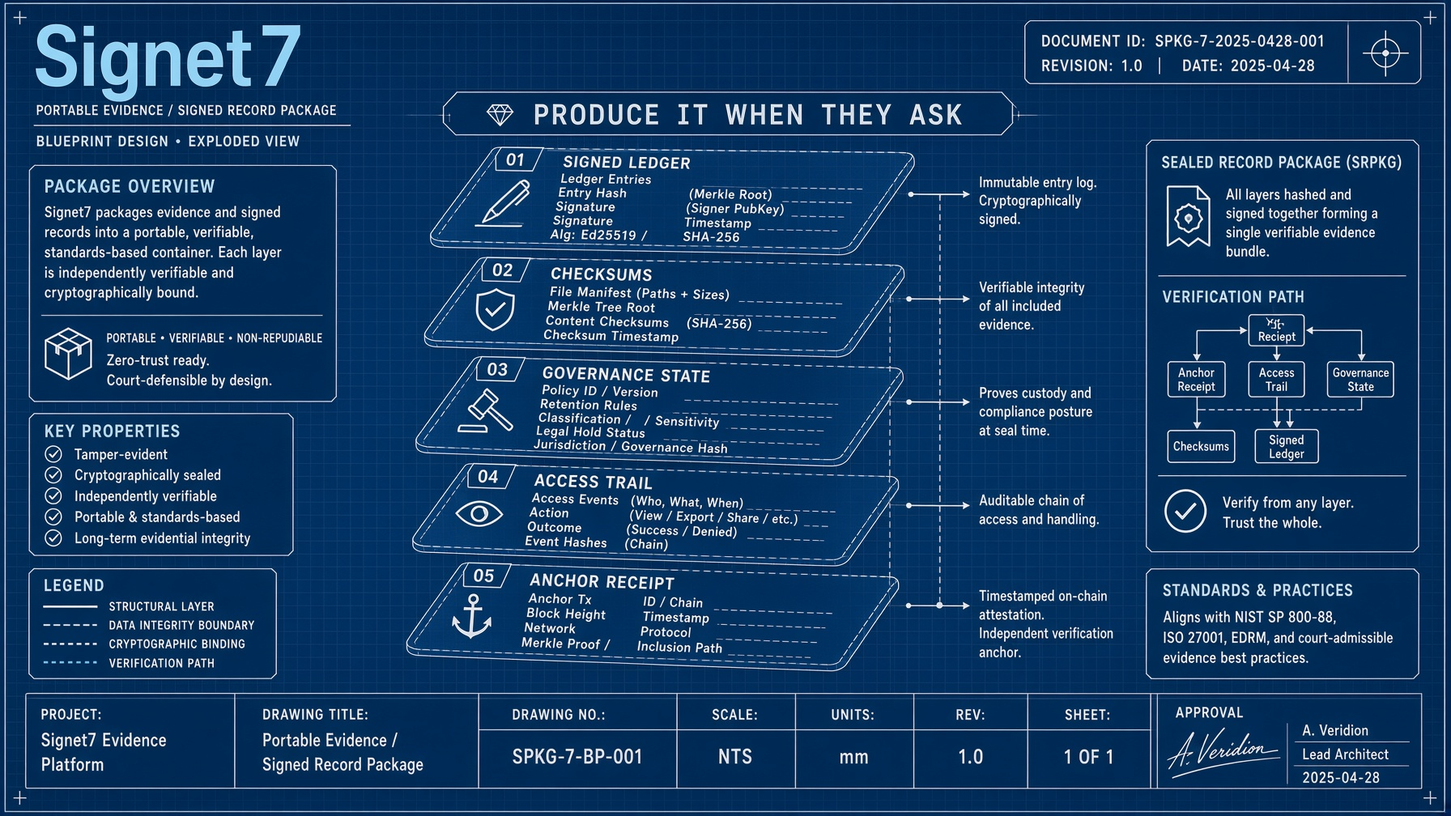
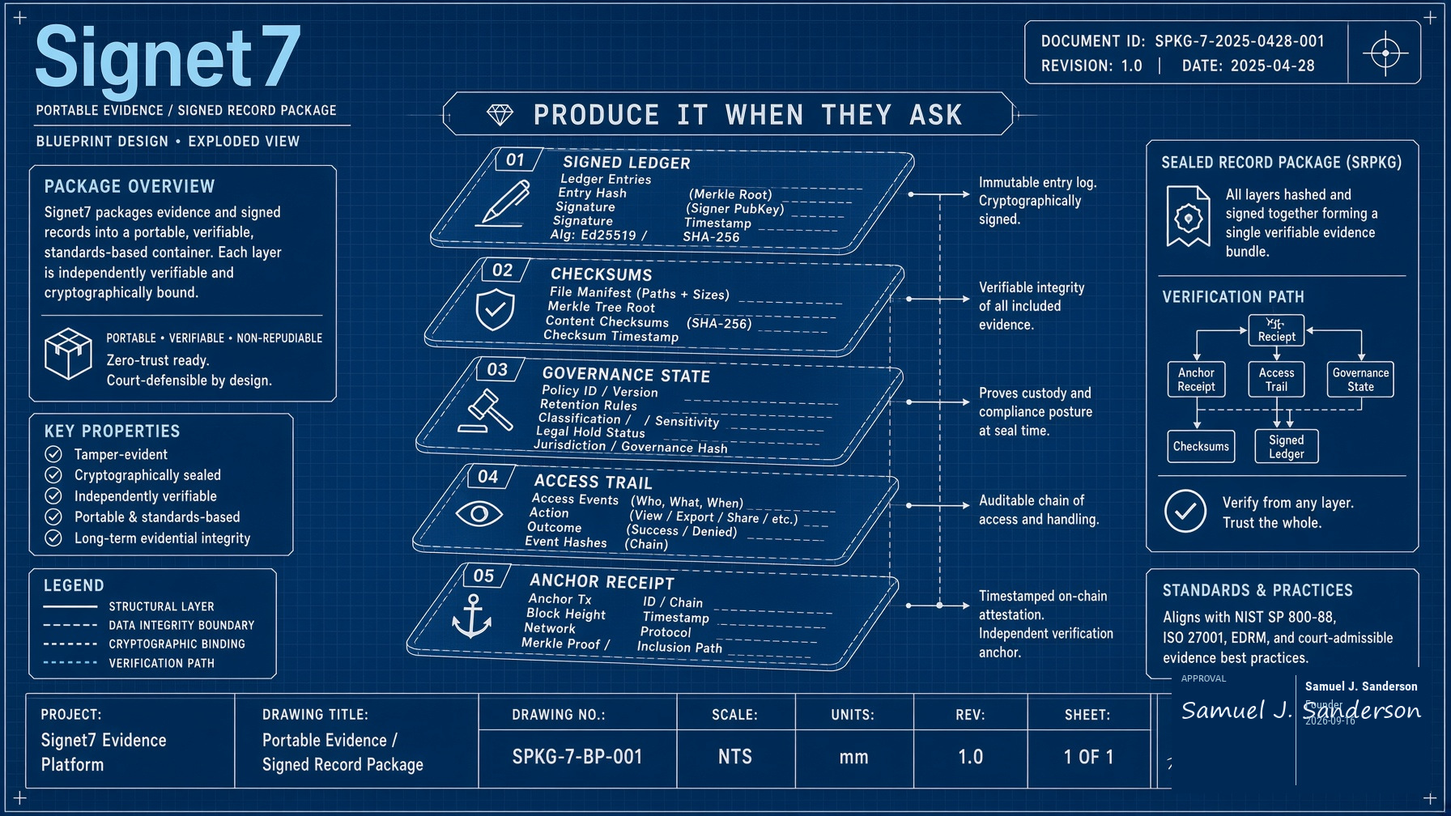
fix(site): CAD approval is Samuel J. Sanderson, Founder (#183)
Replace fake Veridion / Lead Architect stamp. Rest of drawing chaos stays.

Changed region(s): [[0.8125, 0.8304, 1.0, 0.9841]]

diff --git a/programs.html b/programs.html
@@ -5,7 +5,7 @@
  enforceable subset. NOTE: frame-ancestors is ignored when delivered via <meta>;
  real clickjacking protection requires a header layer (Cloudflare/CloudFront) and
  is required before any verification surface is hosted on this domain. -->
-<meta http-equiv="Content-Security-Policy" content="default-src 'self'; script-src 'self'; style-src 'self'; img-src 'self'; font-src 'self'; connect-src 'self'; object-src 'none'; base-uri 'none'; form-action 'self'; frame-ancestors 'none'; upgrade-insecure-requests"><meta name="referrer" content="strict-origin-when-cross-origin"><meta http-equiv="X-Content-Type-Options" content="nosniff"><title>Programs | Signet7</title><meta name="description" content="Signet7 can seal outgoing email. Check for free. Signet7 desktop names several work emails. Each email gets its own listing. Checkout is not live."><link rel="canonical" href="https://signet7.io/programs"><meta property="og:title" content="Programs | Signet7"><meta property="og:description" content="Signet7 can seal outgoing email. Check for free. Signet7 desktop for several work emails. Checkout is not live."><meta property="og:type" content="website"><meta property="og:url" content="https://signet7.io/programs"><meta property="og:image" content="https://signet7.io/assets/blueprint/homepage.jpg?v=20260916j"><meta name="twitter:card" content="summary_large_image"><link rel="icon" type="image/png" href="assets/favicon.png"><meta name="theme-color" content="#05080d"><link rel="stylesheet" href="assets/site.css?v=20260916j"></head>
+<meta http-equiv="Content-Security-Policy" content="default-src 'self'; script-src 'self'; style-src 'self'; img-src 'self'; font-src 'self'; connect-src 'self'; object-src 'none'; base-uri 'none'; form-action 'self'; frame-ancestors 'none'; upgrade-insecure-requests"><meta name="referrer" content="strict-origin-when-cross-origin"><meta http-equiv="X-Content-Type-Options" content="nosniff"><title>Programs | Signet7</title><meta name="description" content="Signet7 can seal outgoing email. Check for free. Signet7 desktop names several work emails. Each email gets its own listing. Checkout is not live."><link rel="canonical" href="https://signet7.io/programs"><meta property="og:title" content="Programs | Signet7"><meta property="og:description" content="Signet7 can seal outgoing email. Check for free. Signet7 desktop for several work emails. Checkout is not live."><meta property="og:type" content="website"><meta property="og:url" content="https://signet7.io/programs"><meta property="og:image" content="https://signet7.io/assets/blueprint/homepage.jpg?v=20260916k"><meta name="twitter:card" content="summary_large_image"><link rel="icon" type="image/png" href="assets/favicon.png"><meta name="theme-color" content="#05080d"><link rel="stylesheet" href="assets/site.css?v=20260916k"></head>
 <body>
  <a class="skip-link" href="#main">Skip to content</a>
  <header class="site-header"><div class="container nav-wrap"><a class="brand" href="/"><svg class="cad-mark" viewBox="0 0 64 64" width="46" height="46" aria-hidden="true" focusable="false"><g fill="none" stroke="#7ed6f0" stroke-width="2.2"><path d="M12 22 L32 12 L52 22 L52 42 L32 52 L12 42 Z"/><path d="M32 12 L32 32 L12 42"/><path d="M32 32 L52 42"/></g></svg><span>Signet7</span></a> <button class="nav-toggle" type="button" aria-expanded="false" aria-controls="site-nav" aria-label="Open menu">Menu</button>
@@ -35,7 +35,7 @@
  <main id="main">
  <section class="page-hero"><div class="container"><p class="eyebrow">Commercial direction</p><h1>Seal outgoing email. Check for free. Signet7 desktop for several work emails.</h1><p class="hero-copy">Signet7 can cryptographically seal outgoing email from the mail you already use. Anyone can then verify on the website. No account. The company download names the work emails that can move money, jobs, or clients — purchasing, billing, trust, intake. Each of those emails gets its own listing. Not every laptop. Free access should buy evidence, not vanity seats.</p><div class="badge-row"><span class="badge cyan">No per-seat install</span><span class="badge gold">Checkout not live yet</span><span class="badge">$0 now</span></div></div></section>
 <figure class="blueprint-sheet">
-<img class="blueprint-plate" src="assets/blueprint/programs.jpg?v=20260916j" width="1792" height="1008" alt="Programs drawing">
+<img class="blueprint-plate" src="assets/blueprint/programs.jpg?v=20260916k" width="1792" height="1008" alt="Programs drawing">
 <figcaption>Programs drawing. Company Signet7 is free for 3 months. Checkout is not live. Recipients never install. Amounts are not a public offer.</figcaption>
 </figure>
 
@@ -56,5 +56,5 @@
 
  </main>
  <footer class="site-footer"><div class="container footer-grid"><div><strong>Signet7</strong><p>Signet7 is the cryptographic seal and check for high-stakes email.</p><p>© 2026 Signet7. All rights reserved.</p></div><div><a href="privacy">Privacy</a><a href="ai">AI use</a><a href="providers">Data providers</a><a href="cancel">Cancel</a><a href="safety">Safety</a><a href="terms">Terms</a><a href="disclaimer">Disclaimer</a><a href="contact">Contact</a><a href="feedback">Feedback</a></div><div><p>Live check and company accounts are available. Decided prices are on the purchase page. Checkout opens separately.</p></div></div></footer>
- <script src="assets/motion.js?v=20260916j" defer></script>
+ <script src="assets/motion.js?v=20260916k" defer></script>
 </body></html>

diff --git a/index.html b/index.html
@@ -14,11 +14,11 @@
   <meta property="og:description" content="Check whether an important email still matches the seal, and whether that sender is listed.">
   <meta property="og:type" content="website">
   <meta property="og:url" content="https://signet7.io/">
-  <meta property="og:image" content="https://signet7.io/assets/blueprint/homepage.jpg?v=20260916j">
+  <meta property="og:image" content="https://signet7.io/assets/blueprint/homepage.jpg?v=20260916k">
   <link rel="canonical" href="https://signet7.io/">
   <link rel="alternate" type="application/ld+json" href="assets/ld-website.json">
   <link rel="icon" type="image/png" href="assets/favicon.png">
-  <link rel="stylesheet" href="assets/site.css?v=20260916j">
+  <link rel="stylesheet" href="assets/site.css?v=20260916k">
   <script type="application/ld+json" src="assets/ld-website.json"></script>
 </head>
 <body class="home">
@@ -59,7 +59,7 @@
   <main id="main">
     <section class="sell-hero" aria-labelledby="hero-title">
       <div class="scene-wrap hero-scene cad-scene">
-        <img class="cad-envelope blueprint-hero" src="assets/blueprint/homepage.jpg?v=20260916j" width="1792" height="1008" alt="Signet7 customer homepage drawing: cryptographic seal and check, two facts, recipients never install.">
+        <img class="cad-envelope blueprint-hero" src="assets/blueprint/homepage.jpg?v=20260916k" width="1792" height="1008" alt="Signet7 customer homepage drawing: cryptographic seal and check, two facts, recipients never install.">
       </div>
       <div class="container nutshell">
         <p class="kicker dim">DWG S7-HOME-001 · REV A · SCALE NTS</p>
@@ -79,17 +79,17 @@
         <h2>Check a message. List the work email. Keep the file.</h2>
         <div class="feature-grid">
           <article class="feat">
-            <a href="check"><img src="assets/blueprint/check.jpg?v=20260916j" width="1792" height="1008" alt="Live-check blueprint drawing."></a>
+            <a href="check"><img src="assets/blueprint/check.jpg?v=20260916k" width="1792" height="1008" alt="Live-check blueprint drawing."></a>
             <h3>Check a message</h3>
             <p>Free. No account. Save the original message and drop it on the live check. Recipients never install.</p>
           </article>
           <article class="feat">
-            <a href="download"><img src="assets/blueprint/download.jpg?v=20260916j" width="1792" height="1008" alt="Desktop download blueprint drawing."></a>
+            <a href="download"><img src="assets/blueprint/download.jpg?v=20260916k" width="1792" height="1008" alt="Desktop download blueprint drawing."></a>
             <h3>List the work email</h3>
             <p>Register first. Signet7 desktop on named work emails. Not every laptop. Recipients never install.</p>
           </article>
           <article class="feat">
-            <a href="record"><img src="assets/blueprint/evidence.jpg?v=20260916j" width="1792" height="1008" alt="Evidence-record blueprint drawing. Click to open."></a>
+            <a href="record"><img src="assets/blueprint/evidence.jpg?v=20260916k" width="1792" height="1008" alt="Evidence-record blueprint drawing. Click to open."></a>
             <h3><a href="record">Keep the file</a></h3>
             <p>The seal is on the message. That file is the record. You can show later that the words still matched.</p>
           </article>
@@ -102,9 +102,9 @@
         <p class="eyebrow">SHEET INDEX</p>
         <h2>The drawings</h2>
         <div class="feature-grid">
-          <article class="feat"><a href="product"><img src="assets/blueprint/product.jpg?v=20260916j" width="1792" height="1008" alt="Product blueprint drawing."></a><h3>Product</h3><p>Seal, check, desktop.</p></article>
-          <article class="feat"><a href="programs"><img src="assets/blueprint/programs.jpg?v=20260916j" width="1792" height="1008" alt="Programs blueprint drawing."></a><h3>Programs</h3><p>Checkout is not live. Amounts are not set.</p></article>
-          <article class="feat"><a href="docs.html"><img src="assets/blueprint/howto.jpg?v=20260916j" width="1792" height="1008" alt="How-to blueprint drawing."></a><h3>Docs</h3><p>How to check. How to install after register.</p></article>
+          <article class="feat"><a href="product"><img src="assets/blueprint/product.jpg?v=20260916k" width="1792" height="1008" alt="Product blueprint drawing."></a><h3>Product</h3><p>Seal, check, desktop.</p></article>
+          <article class="feat"><a href="programs"><img src="assets/blueprint/programs.jpg?v=20260916k" width="1792" height="1008" alt="Programs blueprint drawing."></a><h3>Programs</h3><p>Checkout is not live. Amounts are not set.</p></article>
+          <article class="feat"><a href="docs.html"><img src="assets/blueprint/howto.jpg?v=20260916k" width="1792" height="1008" alt="How-to blueprint drawing."></a><h3>Docs</h3><p>How to check. How to install after register.</p></article>
         </div>
       </div>
     </section>
@@ -117,6 +117,6 @@
       <div><p>Live check and company accounts are available.</p></div>
     </div>
   </footer>
-  <script src="assets/motion.js?v=20260916j" defer></script>
+  <script src="assets/motion.js?v=20260916k" defer></script>
 </body>
 </html>

diff --git a/integrations.html b/integrations.html
@@ -5,7 +5,7 @@
  enforceable subset. NOTE: frame-ancestors is ignored when delivered via <meta>;
  real clickjacking protection requires a header layer (Cloudflare/CloudFront) and
  is required before any verification surface is hosted on this domain. -->
-<meta http-equiv="Content-Security-Policy" content="default-src 'self'; script-src 'self'; style-src 'self'; img-src 'self'; font-src 'self'; connect-src 'self'; object-src 'none'; base-uri 'none'; form-action 'self'; frame-ancestors 'none'; upgrade-insecure-requests"><meta name="referrer" content="strict-origin-when-cross-origin"><meta http-equiv="X-Content-Type-Options" content="nosniff"><title>Integrations | Signet7 API &amp; MCP</title><meta name="description" content="Review Signet7 API/MCP-first agent gating, caller-enforcement contract, email integration candidates, and current deployment boundaries."><link rel="canonical" href="https://signet7.io/integrations"><meta property="og:title" content="Integrations | Signet7 API &amp; MCP"><meta property="og:description" content="Review Signet7 API/MCP-first agent gating, caller-enforcement contract, email integration candidates, and current deployment boundaries."><meta property="og:type" content="website"><meta property="og:url" content="https://signet7.io/integrations"><meta property="og:image" content="https://signet7.io/assets/blueprint/homepage.jpg?v=20260916j"><meta name="twitter:card" content="summary_large_image"><link rel="icon" type="image/png" href="assets/favicon.png"><meta name="theme-color" content="#05080d"><link rel="stylesheet" href="assets/site.css?v=20260916j"></head>
+<meta http-equiv="Content-Security-Policy" content="default-src 'self'; script-src 'self'; style-src 'self'; img-src 'self'; font-src 'self'; connect-src 'self'; object-src 'none'; base-uri 'none'; form-action 'self'; frame-ancestors 'none'; upgrade-insecure-requests"><meta name="referrer" content="strict-origin-when-cross-origin"><meta http-equiv="X-Content-Type-Options" content="nosniff"><title>Integrations | Signet7 API &amp; MCP</title><meta name="description" content="Review Signet7 API/MCP-first agent gating, caller-enforcement contract, email integration candidates, and current deployment boundaries."><link rel="canonical" href="https://signet7.io/integrations"><meta property="og:title" content="Integrations | Signet7 API &amp; MCP"><meta property="og:description" content="Review Signet7 API/MCP-first agent gating, caller-enforcement contract, email integration candidates, and current deployment boundaries."><meta property="og:type" content="website"><meta property="og:url" content="https://signet7.io/integrations"><meta property="og:image" content="https://signet7.io/assets/blueprint/homepage.jpg?v=20260916k"><meta name="twitter:card" content="summary_large_image"><link rel="icon" type="image/png" href="assets/favicon.png"><meta name="theme-color" content="#05080d"><link rel="stylesheet" href="assets/site.css?v=20260916k"></head>
 <body>
  <a class="skip-link" href="#main">Skip to content</a>
  <header class="site-header"><div class="container nav-wrap"><a class="brand" href="/"><svg class="cad-mark" viewBox="0 0 64 64" width="46" height="46" aria-hidden="true" focusable="false"><g fill="none" stroke="#7ed6f0" stroke-width="2.2"><path d="M12 22 L32 12 L52 22 L52 42 L32 52 L12 42 Z"/><path d="M32 12 L32 32 L12 42"/><path d="M32 32 L52 42"/></g></svg><span>Signet7</span></a> <button class="nav-toggle" type="button" aria-expanded="false" aria-controls="site-nav" aria-label="Open menu">Menu</button>
@@ -84,5 +84,5 @@
 
  </main>
  <footer class="site-footer"><div class="container footer-grid"><div><strong>Signet7</strong><p>Signet7 is the cryptographic seal and check for high-stakes email.</p><p>© 2026 Signet7. All rights reserved.</p></div><div><a href="privacy">Privacy</a><a href="ai">AI use</a><a href="providers">Data providers</a><a href="cancel">Cancel</a><a href="safety">Safety</a><a href="terms">Terms</a><a href="disclaimer">Disclaimer</a><a href="contact">Contact</a><a href="feedback">Feedback</a></div><div><p>Live check and company accounts are available.</p></div></div></footer>
- <script src="assets/motion.js?v=20260916j" defer></script>
+ <script src="assets/motion.js?v=20260916k" defer></script>
 </body></html>

diff --git a/trust.html b/trust.html
@@ -5,7 +5,7 @@
  enforceable subset. NOTE: frame-ancestors is ignored when delivered via <meta>;
  real clickjacking protection requires a header layer (Cloudflare/CloudFront) and
  is required before any verification surface is hosted on this domain. -->
-<meta http-equiv="Content-Security-Policy" content="default-src 'self'; script-src 'self'; style-src 'self'; img-src 'self'; font-src 'self'; connect-src 'self'; object-src 'none'; base-uri 'none'; form-action 'self'; frame-ancestors 'none'; upgrade-insecure-requests"><meta name="referrer" content="strict-origin-when-cross-origin"><meta http-equiv="X-Content-Type-Options" content="nosniff"><title>Trust &amp; Evidence | Signet7</title><meta name="description" content="Understand Signet7 signature-bound sender identity, trust states, decision evidence, and whether this From address is listed."><link rel="canonical" href="https://signet7.io/trust"><meta property="og:title" content="Trust &amp; Evidence | Signet7"><meta property="og:description" content="Understand Signet7 signature-bound sender identity, trust states, decision evidence, and whether this From address is listed."><meta property="og:type" content="website"><meta property="og:url" content="https://signet7.io/trust"><meta property="og:image" content="https://signet7.io/assets/blueprint/homepage.jpg?v=20260916j"><meta name="twitter:card" content="summary_large_image"><link rel="icon" type="image/png" href="assets/favicon.png"><meta name="theme-color" content="#05080d"><link rel="stylesheet" href="assets/site.css?v=20260916j"></head>
+<meta http-equiv="Content-Security-Policy" content="default-src 'self'; script-src 'self'; style-src 'self'; img-src 'self'; font-src 'self'; connect-src 'self'; object-src 'none'; base-uri 'none'; form-action 'self'; frame-ancestors 'none'; upgrade-insecure-requests"><meta name="referrer" content="strict-origin-when-cross-origin"><meta http-equiv="X-Content-Type-Options" content="nosniff"><title>Trust &amp; Evidence | Signet7</title><meta name="description" content="Understand Signet7 signature-bound sender identity, trust states, decision evidence, and whether this From address is listed."><link rel="canonical" href="https://signet7.io/trust"><meta property="og:title" content="Trust &amp; Evidence | Signet7"><meta property="og:description" content="Understand Signet7 signature-bound sender identity, trust states, decision evidence, and whether this From address is listed."><meta property="og:type" content="website"><meta property="og:url" content="https://signet7.io/trust"><meta property="og:image" content="https://signet7.io/assets/blueprint/homepage.jpg?v=20260916k"><meta name="twitter:card" content="summary_large_image"><link rel="icon" type="image/png" href="assets/favicon.png"><meta name="theme-color" content="#05080d"><link rel="stylesheet" href="assets/site.css?v=20260916k"></head>
 <body>
  <a class="skip-link" href="#main">Skip to content</a>
  <header class="site-header"><div class="container nav-wrap"><a class="brand" href="/"><svg class="cad-mark" viewBox="0 0 64 64" width="46" height="46" aria-hidden="true" focusable="false"><g fill="none" stroke="#7ed6f0" stroke-width="2.2"><path d="M12 22 L32 12 L52 22 L52 42 L32 52 L12 42 Z"/><path d="M32 12 L32 32 L12 42"/><path d="M32 32 L52 42"/></g></svg><span>Signet7</span></a> <button class="nav-toggle" type="button" aria-expanded="false" aria-controls="site-nav" aria-label="Open menu">Menu</button>
@@ -63,5 +63,5 @@
 
  </main>
  <footer class="site-footer"><div class="container footer-grid"><div><strong>Signet7</strong><p>Signet7 is the cryptographic seal and check for high-stakes email.</p><p>© 2026 Signet7. All rights reserved.</p></div><div><a href="privacy">Privacy</a><a href="ai">AI use</a><a href="providers">Data providers</a><a href="cancel">Cancel</a><a href="safety">Safety</a><a href="terms">Terms</a><a href="disclaimer">Disclaimer</a><a href="contact">Contact</a><a href="feedback">Feedback</a></div><div><p>Live check and company accounts are available.</p></div></div></footer>
- <script src="assets/motion.js?v=20260916j" defer></script>
+ <script src="assets/motion.js?v=20260916k" defer></script>
 </body></html>

diff --git a/product.html b/product.html
@@ -16,10 +16,10 @@
  <meta property="og:description" content="Signet7 can seal the email. Recipients then verify. Recipients do not install.">
  <meta property="og:type" content="website">
  <meta property="og:url" content="https://signet7.io/product">
- <meta property="og:image" content="https://signet7.io/assets/blueprint/homepage.jpg?v=20260916j">
+ <meta property="og:image" content="https://signet7.io/assets/blueprint/homepage.jpg?v=20260916k">
  <meta name="twitter:card" content="summary_large_image">
  <link rel="icon" type="image/png" href="assets/favicon.png">
- <link rel="stylesheet" href="assets/site.css?v=20260916j">
+ <link rel="stylesheet" href="assets/site.css?v=20260916k">
 </head>
 <body>
  <a class="skip-link" href="#main">Skip to content</a>
@@ -65,7 +65,7 @@
  </div>
 </section>
 <figure class="blueprint-sheet">
-<img class="blueprint-plate" src="assets/blueprint/product.jpg?v=20260916j" width="1792" height="1008" alt="Product blueprint drawing">
+<img class="blueprint-plate" src="assets/blueprint/product.jpg?v=20260916k" width="1792" height="1008" alt="Product blueprint drawing">
 <figcaption>Product drawing. Seal, check, and the company desktop. Recipients never install. Checkout is not live. No demo CTA.</figcaption>
 </figure>
 
@@ -101,9 +101,9 @@
    <article class="card" id="watch"><h3>Signet7 desktop</h3><p>Signet7 desktop on one office computer. Several named work emails. It reads incoming on that set. Opt-in stamp when you send, still in your mail app. Ordinary mail stays quiet. It shouts if a stamp is torn.</p><p id="product-records-vault">Optional encrypted records vault on that computer for money and account mail. You hold the recovery key. Cap is 10 GB. Warning at 50%. Export a zip before 90%. The public website check does not keep the letter. Recipients never use the vault. Not a court stamp.</p><p><a href="register">Signet7 desktop</a></p></article>
  </div>
  <div class="art-trio">
-  <figure><img src="assets/blueprint/check.jpg?v=20260916j" width="1792" height="1008" alt="Live-check blueprint drawing."><figcaption>The check</figcaption></figure>
-  <figure><img src="assets/blueprint/download.jpg?v=20260916j" width="1792" height="1008" alt="Desktop download blueprint drawing."><figcaption>Signet7 desktop</figcaption></figure>
-  <figure><a href="record"><img src="assets/blueprint/evidence.jpg?v=20260916j" width="1792" height="1008" alt="Evidence-record blueprint drawing."></a><figcaption>Keep the file</figcaption></figure>
+  <figure><img src="assets/blueprint/check.jpg?v=20260916k" width="1792" height="1008" alt="Live-check blueprint drawing."><figcaption>The check</figcaption></figure>
+  <figure><img src="assets/blueprint/download.jpg?v=20260916k" width="1792" height="1008" alt="Desktop download blueprint drawing."><figcaption>Signet7 desktop</figcaption></figure>
+  <figure><a href="record"><img src="assets/blueprint/evidence.jpg?v=20260916k" width="1792" height="1008" alt="Evidence-record blueprint drawing."></a><figcaption>Keep the file</figcaption></figure>
  </div>
  <p class="section-intro">Look up a company when you enroll. Checkout is not live. Engineers: the contract lives on <a href="docs#spec">Docs</a>.</p>
  <p><a href="scenarios">Send and receive</a> · <a href="programs">Programs</a> · <a href="enterprise">Enterprise</a> · <a href="pilot">Pilot</a> · <a href="integrations">Integrations</a> · <a href="pay">Pay</a></p>
@@ -121,6 +121,6 @@
  </section>
  </main>
  <footer class="site-footer"><div class="container footer-grid"><div><strong>Signet7</strong><p>Signet7 is the cryptographic seal and check for high-stakes email.</p><p>© 2026 Signet7. All rights reserved.</p></div><div><a href="privacy">Privacy</a><a href="ai">AI use</a><a href="providers">Data providers</a><a href="cancel">Cancel</a><a href="safety">Safety</a><a href="terms">Terms</a><a href="disclaimer">Disclaimer</a><a href="contact">Contact</a><a href="feedback">Feedback</a></div><div><p>Live check and company accounts are available.</p></div></div></footer>
- <script src="assets/motion.js?v=20260916j" defer></script>
+ <script src="assets/motion.js?v=20260916k" defer></script>
 </body>
 </html>

diff --git a/about.html b/about.html
@@ -13,14 +13,14 @@
  <meta property="og:description" content="Meet the Signet7 founding team and the mission to help people cryptographically seal consequential email and check that seal before they act.">
  <meta property="og:type" content="website">
  <meta property="og:url" content="https://signet7.io/about">
- <meta property="og:image" content="https://signet7.io/assets/blueprint/homepage.jpg?v=20260916j">
+ <meta property="og:image" content="https://signet7.io/assets/blueprint/homepage.jpg?v=20260916k">
  <meta name="twitter:card" content="summary_large_image">
  <meta name="description" content="Meet the Signet7 founding team and the mission to help people cryptographically seal consequential email and check that seal before they act.">
  <meta name="theme-color" content="#05080d">
  <title>Team and Mission | Signet7</title>
  <link rel="icon" type="image/png" href="assets/favicon.png">
  <link rel="apple-touch-icon" href="assets/apple-touch-icon.png">
- <link rel="stylesheet" href="assets/site.css?v=20260916j">
+ <link rel="stylesheet" href="assets/site.css?v=20260916k">
 </head>
 <body>
  <a class="skip-link" href="#main">Skip to content</a>
@@ -70,11 +70,11 @@
  </div>
  </section>
 <figure class="blueprint-sheet">
-<img class="blueprint-plate" src="assets/blueprint/about.jpg?v=20260916j" width="1792" height="1008" alt="Signet7 founding team drawing: Samuel J. Sanderson, Founder; Justin D. Daines, CO-Founder; Josh S. Riley, Founding Team Member; George Terris, marketing.">
+<img class="blueprint-plate" src="assets/blueprint/about.jpg?v=20260916k" width="1792" height="1008" alt="Signet7 founding team drawing: Samuel J. Sanderson, Founder; Justin D. Daines, CO-Founder; Josh S. Riley, Founding Team Member; George Terris, marketing.">
 <figcaption>Founding team drawing. Working roles for a pre-formation project. Not officer titles. Checkout is not live.</figcaption>
 </figure>
 <figure class="blueprint-sheet">
-<img class="blueprint-plate" src="assets/blueprint/about-cyber.jpg?v=20260916j" width="1792" height="1008" alt="Signet7 about drawing, cyber variant.">
+<img class="blueprint-plate" src="assets/blueprint/about-cyber.jpg?v=20260916k" width="1792" height="1008" alt="Signet7 about drawing, cyber variant.">
 <figcaption>Same facts. Recipients never install. Company Signet7 is free for 3 months.</figcaption>
 </figure>
 
@@ -205,6 +205,6 @@
  <div><p>Live check and company accounts are available.</p></div>
  </div>
  </footer>
- <script src="assets/motion.js?v=20260916j" defer></script>
+ <script src="assets/motion.js?v=20260916k" defer></script>
 </body>
 </html>

diff --git a/docs.html b/docs.html
@@ -13,15 +13,15 @@
  <meta property="og:description" content="How to seal outgoing email, then verify a message, and use Outlook, Apple Mail, Gmail, or Thunderbird with Signet7.">
  <meta property="og:type" content="website">
  <meta property="og:url" content="https://signet7.io/docs">
- <meta property="og:image" content="https://signet7.io/assets/blueprint/homepage.jpg?v=20260916j">
+ <meta property="og:image" content="https://signet7.io/assets/blueprint/homepage.jpg?v=20260916k">
  <meta name="twitter:card" content="summary_large_image">
  <meta name="description" content="How to seal outgoing email, then verify a message, and use Outlook, Apple Mail, Gmail, or Thunderbird with Signet7.">
  <meta name="theme-color" content="#05080d">
  <title>Documentation | Signet7</title>
  <link rel="icon" type="image/png" href="assets/favicon.png">
  <link rel="apple-touch-icon" href="assets/apple-touch-icon.png">
- <link rel="stylesheet" href="assets/site.css?v=20260916j">
- <link rel="stylesheet" href="assets/docs.css?v=20260916j">
+ <link rel="stylesheet" href="assets/site.css?v=20260916k">
+ <link rel="stylesheet" href="assets/docs.css?v=20260916k">
 </head>
 <body class="docs-manual">
  <a class="skip-link" href="#main">Skip to content</a>
@@ -96,7 +96,7 @@
  </div>
  </section>
 <figure class="blueprint-sheet">
-<img class="blueprint-plate" src="assets/blueprint/howto.jpg?v=20260916j" width="1792" height="1008" alt="Sixty-second check drawing">
+<img class="blueprint-plate" src="assets/blueprint/howto.jpg?v=20260916k" width="1792" height="1008" alt="Sixty-second check drawing">
 <figcaption>Sixty-second check drawing. Register first for the company zip.</figcaption>
 </figure>
 
@@ -395,7 +395,7 @@
  <div><p>Live check and company accounts are available.</p></div>
  </div>
  </footer>
- <script src="assets/motion.js?v=20260916j" defer></script>
+ <script src="assets/motion.js?v=20260916k" defer></script>
  <script src="assets/docs-nav.js?v=20260830a" defer></script>
 </body>
 </html>

diff --git a/vsn.html b/vsn.html
@@ -18,7 +18,7 @@
  <meta property="og:image" content="https://signet7.io/assets/og-link-two.png">
  <link rel="canonical" href="https://signet7.io/vsn">
  <link rel="icon" type="image/png" href="assets/favicon.png">
- <link rel="stylesheet" href="assets/site.css?v=20260916j">
+ <link rel="stylesheet" href="assets/site.css?v=20260916k">
 </head>
 <body>
  <a class="skip-link" href="#main">Skip to content</a>
@@ -62,7 +62,7 @@
 <p class="hero-copy">Mail between those two addresses can be checked. Recipients see Listed, Not listed, or Listing doesn’t match this address. DNS keys if they published TXT. Hosted listings after they enroll. Not a phone book of every company. If you are using Signet7, the other company gets the free check and an invite — they do not install Signet7 desktop unless they want to. If they also run Signet7, listing and the stamp happen when you send. Invite once per recipient. Mail comes from Signet7, not inside the business letter.</p>
 <p class="hero-actions"><a class="button button-primary" href="https://verify.signet7.io/invite">Invite landing</a>
 <a class="button button-secondary" href="https://verify.signet7.io/email/verify">Live check</a></p>
-<figure class="art-hero"><img src="assets/blueprint/architecture.jpg?v=20260916j" width="1792" height="1008" alt="Signet7 surface-map blueprint drawing."></figure>
+<figure class="art-hero"><img src="assets/blueprint/architecture.jpg?v=20260916k" width="1792" height="1008" alt="Signet7 surface-map blueprint drawing."></figure>
 
 </div></section>
 
@@ -74,6 +74,6 @@
  <div><p>Live check and company accounts are available.</p></div>
  </div>
  </footer>
- <script src="assets/motion.js?v=20260916j" defer></script>
+ <script src="assets/motion.js?v=20260916k" defer></script>
 </body>
 </html>

diff --git a/download.html b/download.html
@@ -15,10 +15,10 @@
  <meta property="og:description" content="Download Signet7 desktop for several work emails. Recipients use the live check.">
  <meta property="og:type" content="website">
  <meta property="og:url" content="https://signet7.io/download">
- <meta property="og:image" content="https://signet7.io/assets/blueprint/homepage.jpg?v=20260916j">
+ <meta property="og:image" content="https://signet7.io/assets/blueprint/homepage.jpg?v=20260916k">
  <link rel="canonical" href="https://signet7.io/download">
  <link rel="icon" type="image/png" href="assets/favicon.png">
- <link rel="stylesheet" href="assets/site.css?v=20260916j">
+ <link rel="stylesheet" href="assets/site.css?v=20260916k">
  <link rel="stylesheet" href="assets/download.css">
  <link rel="stylesheet" href="assets/install-chooser.css?v=20260831c">
 </head>
@@ -72,7 +72,7 @@
  </div>
  </section>
 <figure class="blueprint-sheet">
-<img class="blueprint-plate" src="assets/blueprint/download.jpg?v=20260916j" width="1792" height="1008" alt="Desktop drawing">
+<img class="blueprint-plate" src="assets/blueprint/download.jpg?v=20260916k" width="1792" height="1008" alt="Desktop drawing">
 <figcaption>Desktop drawing. Register first. The zip is on the company desk after sign-in.</figcaption>
 </figure>
 
@@ -143,7 +143,7 @@
  <div><p>Live check and company accounts are available.</p></div>
  </div>
  </footer>
- <script src="assets/motion.js?v=20260916j" defer></script>
+ <script src="assets/motion.js?v=20260916k" defer></script>
  <script src="assets/download.js" defer></script>
  <script src="assets/install-chooser.js?v=20260831c" defer></script>
 </body>

diff --git a/pilot.html b/pilot.html
@@ -12,11 +12,11 @@
  <meta property="og:description" content="A bounded four-week Signet7 Founding Design Partner evaluation for one consequential email workflow: payment instructions.">
  <meta property="og:type" content="website">
  <meta property="og:url" content="https://signet7.io/pilot">
- <meta property="og:image" content="https://signet7.io/assets/blueprint/homepage.jpg?v=20260916j">
+ <meta property="og:image" content="https://signet7.io/assets/blueprint/homepage.jpg?v=20260916k">
  <meta name="twitter:card" content="summary_large_image">
  <meta name="description" content="A bounded four-week Signet7 Founding Design Partner evaluation for one consequential email workflow: payment instructions.">
  <meta name="theme-color" content="#05080d"><title>Founding Design Partner Pilot | Signet7</title>
- <link rel="icon" type="image/png" href="assets/favicon.png"><link rel="apple-touch-icon" href="assets/apple-touch-icon.png"><link rel="stylesheet" href="assets/site.css?v=20260916j">
+ <link rel="icon" type="image/png" href="assets/favicon.png"><link rel="apple-touch-icon" href="assets/apple-touch-icon.png"><link rel="stylesheet" href="assets/site.css?v=20260916k">
 </head>
 <body>
  <a class="skip-link" href="#main">Skip to content</a>
@@ -96,6 +96,6 @@
  <div><p>Live check and company accounts are available.</p></div>
  </div>
  </footer>
- <script src="assets/motion.js?v=20260916j" defer></script>
+ <script src="assets/motion.js?v=20260916k" defer></script>
 </body>
 </html>

diff --git a/faq.html b/faq.html
@@ -15,10 +15,10 @@
  <meta property="og:description" content="Plain answers: what to do with an important email, what verified means, and whether you write mail inside Signet7.">
  <meta property="og:type" content="website">
  <meta property="og:url" content="https://signet7.io/faq">
- <meta property="og:image" content="https://signet7.io/assets/blueprint/homepage.jpg?v=20260916j">
+ <meta property="og:image" content="https://signet7.io/assets/blueprint/homepage.jpg?v=20260916k">
  <link rel="canonical" href="https://signet7.io/faq">
  <link rel="icon" type="image/png" href="assets/favicon.png">
- <link rel="stylesheet" href="assets/site.css?v=20260916j">
+ <link rel="stylesheet" href="assets/site.css?v=20260916k">
 </head>
 <body>
  <a class="skip-link" href="#main">Skip to content</a>
@@ -62,7 +62,7 @@
  </div>
 </section>
 <figure class="blueprint-sheet">
-<img class="blueprint-plate" src="assets/blueprint/faq.jpg?v=20260916j" width="1792" height="1008" alt="FAQ drawing">
+<img class="blueprint-plate" src="assets/blueprint/faq.jpg?v=20260916k" width="1792" height="1008" alt="FAQ drawing">
 <figcaption>FAQ drawing. Recipients never install. A match does not approve payment. Checkout is not live.</figcaption>
 </figure>
 
@@ -94,6 +94,6 @@
  <div><p>Live check and company accounts are available.</p></div>
  </div>
  </footer>
- <script src="assets/motion.js?v=20260916j" defer></script>
+ <script src="assets/motion.js?v=20260916k" defer></script>
 </body>
 </html>

diff --git a/terms.html b/terms.html
@@ -13,7 +13,7 @@
   <meta property="og:description" content="Review draft Signet7 terms for automated consequential-email evidence verification, dashboard administration, integrations, and customer responsibilities.">
   <meta property="og:type" content="website">
   <meta property="og:url" content="https://signet7.io/terms">
-  <meta property="og:image" content="https://signet7.io/assets/blueprint/homepage.jpg?v=20260916j">
+  <meta property="og:image" content="https://signet7.io/assets/blueprint/homepage.jpg?v=20260916k">
   <meta name="twitter:card" content="summary_large_image">
   <meta name="robots" content="noindex, nofollow">
   <meta name="description" content="Review draft Signet7 terms for automated consequential-email evidence verification, dashboard administration, integrations, and customer responsibilities.">
@@ -21,7 +21,7 @@
   <title>Terms of Service | Signet7</title>
   <link rel="icon" type="image/png" href="assets/favicon.png">
   <link rel="apple-touch-icon" href="assets/apple-touch-icon.png">
-  <link rel="stylesheet" href="assets/site.css?v=20260916j">
+  <link rel="stylesheet" href="assets/site.css?v=20260916k">
 </head>
 <body>
   <a class="skip-link" href="#main">Skip to content</a>
@@ -119,6 +119,6 @@
       <div><p>Live check and company accounts are available.</p></div>
     </div>
   </footer>
-  <script src="assets/motion.js?v=20260916j" defer></script>
+  <script src="assets/motion.js?v=20260916k" defer></script>
 </body>
 </html>
